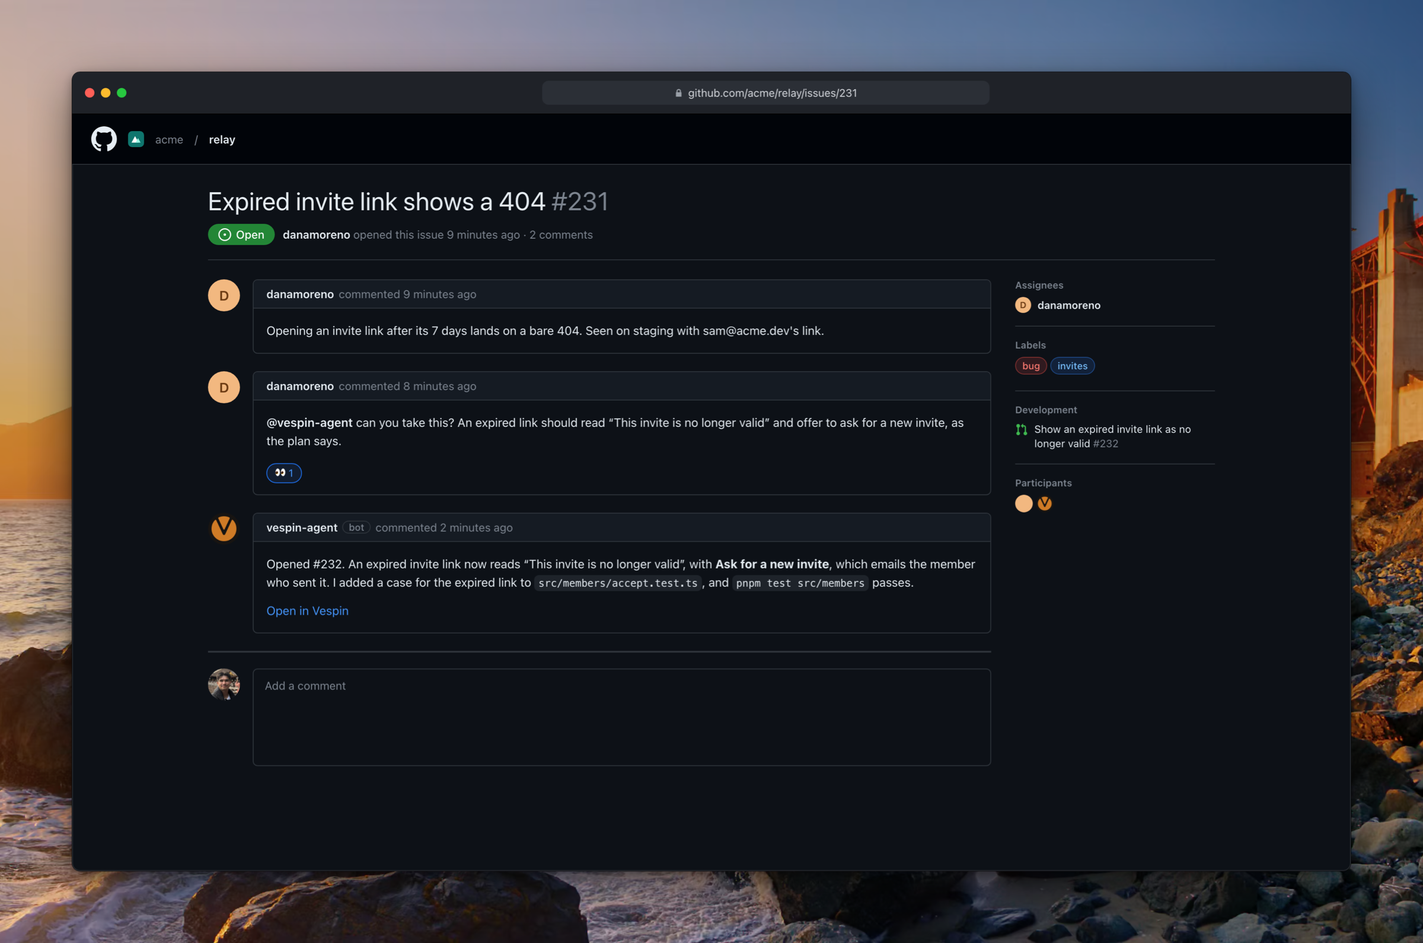
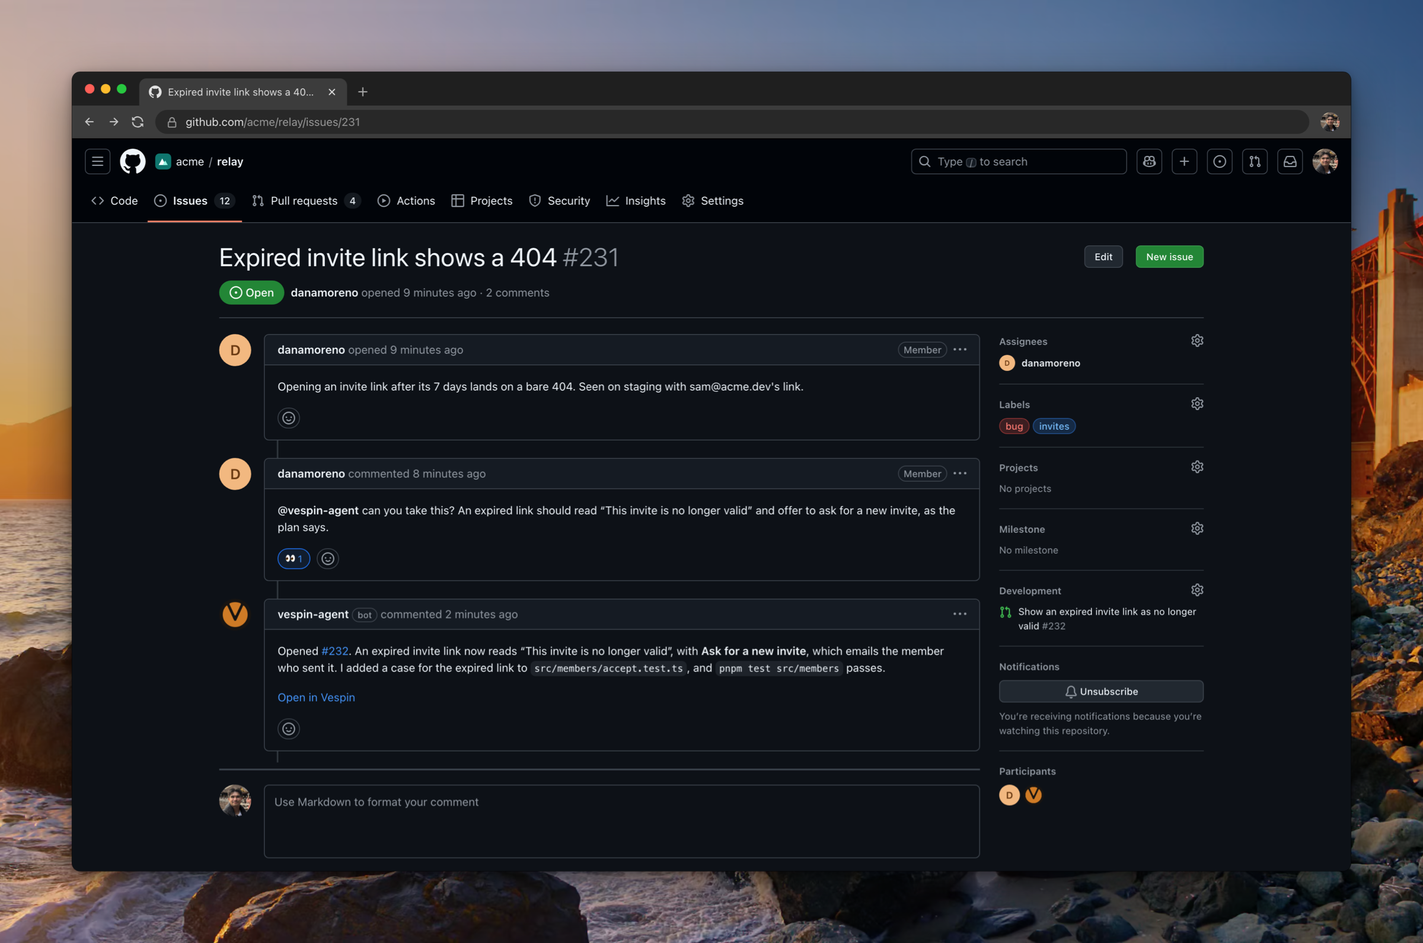
docs(changelog): rework 0.34.0's Automations and GitHub pictures, and hold the rail
The one-time automation's editor replaces the Automations list, the GitHub
mention is rebuilt on GitHub's own Primer CSS and Octicons, and the
transcript rail's section becomes an Improvements bullet until its
redesign ships.

diff --git a/.agents/skills/changelog-screenshots/staging/releases/v0.34.0-github-mention.py b/.agents/skills/changelog-screenshots/staging/releases/v0.34.0-github-mention.py
@@ -1,0 +1,139 @@
+# v0.34.0-github-mention.py -- builds the GitHub issue mockup for 0.34.0's "Mention Vespin on GitHub": GitHub's dark theme from its own Primer CSS and Octicons, inlined, in a Chrome window.
+#
+# Throwaway staging, kept to redo the picture. Needs `npm install @primer/css@21 @primer/octicons@19 @primer/primitives@10` under `.context/primer/`;
+# writes `.context/mock/github-mention.html`, which the Mac's Chrome renders (README's 0.34.0 row).
+import base64, os, re, sys
+ROOT = "/workspace/repository"
+PRIMER = f"{ROOT}/.context/primer/node_modules/@primer"
+OCT = f"{PRIMER}/octicons/build/svg"
+
+def icon(name, size=16, cls="octicon", style=""):
+    svg = open(f"{OCT}/{name}-16.svg").read()
+    svg = re.sub(r'<svg ', f'<svg class="{cls}" style="{style}" fill="currentColor" ', svg, count=1)
+    svg = re.sub(r'width="16" height="16"', f'width="{size}" height="{size}"', svg, count=1)
+    return svg
+
+def data(path, mime):
+    return f"data:{mime};base64," + base64.b64encode(open(path, "rb").read()).decode()
+
+CSS_FILES = [
+    f"{PRIMER}/primitives/dist/css/base/size/size.css",
+    f"{PRIMER}/primitives/dist/css/base/typography/typography.css",
+    f"{PRIMER}/primitives/dist/css/functional/size/size.css",
+    f"{PRIMER}/primitives/dist/css/functional/size/border.css",
+    f"{PRIMER}/primitives/dist/css/functional/typography/typography.css",
+    f"{PRIMER}/primitives/dist/css/functional/themes/dark.css",
+    f"{PRIMER}/css/dist/primer.css",
+]
+
+BOT = data(f"{ROOT}/packages/brand/assets/avatar/avatar-dark-400.png", "image/png")
+ACME = data(f"{ROOT}/.agents/skills/changelog-screenshots/assets/acme-mark.svg", "image/svg+xml")
+DEAN = data(f"{ROOT}/.agents/skills/changelog-screenshots/assets/dean-stratakos.jpg", "image/jpeg")
+
+def dana(size):
+    return (f'<span class="dana" style="width:{size}px;height:{size}px;font-size:{round(size*0.45)}px">D</span>')
+
+def comment(avatar, login, when, body, badge="", reactions="", bot=False):
+    botlabel = '<span class="Label Label--secondary ml-1" style="font-size:11px;line-height:16px;padding:0 6px">bot</span>' if bot else ""
+    role = f'<span class="Label Label--secondary" style="font-size:12px">{badge}</span>' if badge else ""
+    return f'''
+<div class="tl-item">
+  <div class="tl-avatar">{avatar}</div>
+  <div class="cbox">
+    <div class="chead"><div><a class="Link--primary text-bold">{login}</a>{botlabel} <span class="fgColor-muted">{when}</span></div>
+      <div class="d-flex flex-items-center" style="gap:8px">{role}<span class="fgColor-muted">{icon("kebab-horizontal")}</span></div></div>
+    <div class="markdown-body cbody">{body}</div>
+    <div class="creact">{reactions}<span class="react-add">{icon("smiley")}</span></div>
+  </div>
+</div>'''
+
+def page(css):
+    tabs = [("code","Code",""),("issue-opened","Issues","12"),("git-pull-request","Pull requests","4"),("play","Actions",""),("table","Projects",""),("shield","Security",""),("graph","Insights",""),("gear","Settings","")]
+    nav = "".join(
+        f'<a class="rtab{" sel" if label=="Issues" else ""}">{icon(i, cls="octicon fgColor-muted")}<span>{label}</span>{f"<span class=\'Counter\'>{c}</span>" if c else ""}</a>'
+        for i,label,c in tabs)
+    return f'''<!doctype html><html data-color-mode="dark" data-dark-theme="dark" data-light-theme="dark"><head><meta charset="utf-8">
+<style>{css}</style>
+<style>
+html,body{{background:transparent !important;margin:0}}
+body{{width:1712px;height:1112px;position:relative;font-family:-apple-system,BlinkMacSystemFont,"Segoe UI","Noto Sans",Helvetica,Arial,sans-serif;font-size:14px;color:var(--fgColor-default);-webkit-font-smoothing:antialiased}}
+.win{{position:absolute;left:56px;top:38px;width:1600px;height:1000px;border-radius:10px;overflow:hidden;background:var(--bgColor-default);box-shadow:0 0 0 .5px rgba(0,0,0,.85),0 22px 60px rgba(0,0,0,.5),0 4px 14px rgba(0,0,0,.35)}}
+.strip{{height:42px;background:#1f1f1f;display:flex;align-items:flex-end;padding-left:84px;position:relative}}
+.lights{{position:absolute;left:16px;top:15px;display:flex;gap:8px}}.lights i{{width:12px;height:12px;border-radius:50%;display:block}}
+.ctab{{height:34px;width:260px;background:#3c3c3c;border-radius:9px 9px 0 0;display:flex;align-items:center;gap:8px;padding:0 12px;color:#e3e3e3;font-size:12.5px;white-space:nowrap;overflow:hidden}}
+.ctab svg{{flex:none;color:#e3e3e3}}.ctab .t{{flex:1;overflow:hidden;text-overflow:ellipsis}}
+.ctab2{{height:34px;display:flex;align-items:center;padding:0 12px;color:#a8a8a8}}
+.toolbar{{height:42px;background:#3c3c3c;display:flex;align-items:center;gap:14px;padding:0 14px;color:#c4c4c4;border-bottom:1px solid #000}}
+.omni{{flex:1;height:30px;border-radius:15px;background:#282828;display:flex;align-items:center;gap:10px;padding:0 14px;color:#e3e3e3;font-size:14px}}
+.omni .h{{color:#9a9a9a}}
+.appheader{{background:var(--bgColor-inset);border-bottom:1px solid var(--borderColor-default)}}
+.ah1{{height:56px;display:flex;align-items:center;gap:12px;padding:0 16px}}
+.ibtn{{width:32px;height:32px;border:1px solid var(--borderColor-default);border-radius:6px;display:flex;align-items:center;justify-content:center;color:var(--fgColor-muted)}}
+.crumb{{display:flex;align-items:center;gap:6px;font-size:14px}}
+.crumb img{{width:20px;height:20px;border-radius:5px}}
+.search{{margin-left:auto;width:270px;height:32px;border:1px solid var(--borderColor-default);border-radius:6px;display:flex;align-items:center;gap:8px;padding:0 8px;color:var(--fgColor-muted);font-size:14px}}
+.search kbd{{margin-left:auto;font-size:11px;border:1px solid var(--borderColor-default);border-radius:4px;padding:0 4px;color:var(--fgColor-muted);font-family:inherit}}
+.rtabs{{display:flex;gap:4px;padding:0 16px;height:48px;align-items:flex-end}}
+.rtab{{display:flex;align-items:center;gap:8px;padding:0 8px 10px;color:var(--fgColor-default);font-size:14px;line-height:30px;border-bottom:2px solid transparent}}
+.rtab.sel{{border-bottom-color:#f78166;font-weight:600}}
+.rtab .Counter{{background:var(--bgColor-neutral-muted);color:var(--fgColor-default)}}
+.content{{width:1232px;margin:0 auto;padding-top:22px}}
+.ihead{{display:flex;align-items:flex-start;gap:16px}}
+.ititle{{font-size:32px;line-height:1.25;font-weight:400;flex:1;margin:0}}
+.ititle span{{color:var(--fgColor-muted);font-weight:300}}
+.imeta{{display:flex;align-items:center;gap:8px;margin:10px 0 0;padding-bottom:16px;border-bottom:1px solid var(--borderColor-default);color:var(--fgColor-muted)}}
+.State{{display:inline-flex;align-items:center;gap:4px}}
+.cols{{display:flex;gap:24px;margin-top:20px}}
+.main{{flex:1;min-width:0;position:relative}}
+.main:before{{content:"";position:absolute;left:72px;top:0;bottom:120px;width:2px;background:var(--borderColor-muted)}}
+.tl-item{{display:flex;gap:16px;margin-bottom:22px;position:relative}}
+.tl-avatar img,.tl-avatar .dana{{width:40px;height:40px;border-radius:50%}}
+.dana{{display:flex;align-items:center;justify-content:center;background:#f2b880;color:#6b3a12;font-weight:600;border-radius:50%}}
+.cbox{{flex:1;border:1px solid var(--borderColor-default);border-radius:6px;background:var(--bgColor-default);position:relative}}
+.chead{{display:flex;justify-content:space-between;align-items:center;padding:8px 16px;background:var(--bgColor-muted);border-bottom:1px solid var(--borderColor-default);border-radius:6px 6px 0 0;font-size:14px}}
+.cbody{{padding:16px;font-size:14px}}
+.creact{{display:flex;gap:8px;align-items:center;padding:0 16px 14px}}
+.rx{{display:inline-flex;align-items:center;gap:6px;height:26px;padding:0 9px;border-radius:13px;border:1px solid var(--borderColor-accent-emphasis);background:var(--bgColor-accent-muted);font-size:12px;color:var(--fgColor-accent)}}
+.react-add{{display:inline-flex;align-items:center;justify-content:center;width:28px;height:26px;border-radius:13px;border:1px solid var(--borderColor-default);color:var(--fgColor-muted)}}
+.compose{{display:flex;gap:16px;padding-top:18px;border-top:2px solid var(--borderColor-default);position:relative;background:var(--bgColor-default)}}
+.compose img{{width:40px;height:40px;border-radius:50%}}
+.area{{flex:1;border:1px solid var(--borderColor-default);border-radius:6px;height:92px;padding:10px 12px;color:var(--fgColor-muted)}}
+.side{{width:256px;flex:none;font-size:12px}}
+.ssec{{padding:0 0 16px;margin-bottom:16px;border-bottom:1px solid var(--borderColor-muted)}}
+.ssec h3{{font-size:12px;font-weight:600;color:var(--fgColor-muted);margin:0 0 8px;display:flex;justify-content:space-between}}
+.ssec .v{{font-size:12px;color:var(--fgColor-muted)}}
+.who{{display:flex;gap:8px;align-items:center;font-weight:600;font-size:12px;color:var(--fgColor-default)}}
+.dev{{display:flex;gap:8px;font-size:12px;line-height:1.5;color:var(--fgColor-default)}}
+.dev svg{{color:var(--fgColor-open);flex:none;margin-top:2px}}
+</style></head><body><div class="win">
+<div class="strip"><div class="lights"><i style="background:#ff5f57"></i><i style="background:#febc2e"></i><i style="background:#28c840"></i></div>
+<div class="ctab">{icon("mark-github")}<span class="t">Expired invite link shows a 404 · Issue #231 · acme/relay</span>{icon("x", 14)}</div><div class="ctab2">{icon("plus")}</div></div>
+<div class="toolbar">{icon("arrow-left")}{icon("arrow-right")}{icon("sync")}<div class="omni"><span class="h">{icon("lock", 14)}</span><span>github.com<span class="h">/acme/relay/issues/231</span></span></div><img src="{DEAN}" style="width:24px;height:24px;border-radius:50%"></div>
+<div class="appheader"><div class="ah1"><span class="ibtn">{icon("three-bars")}</span>{icon("mark-github", 32, style="color:var(--fgColor-default)")}
+<span class="crumb"><img src="{ACME}"><a class="Link--primary">acme</a><span class="fgColor-muted">/</span><a class="Link--primary text-bold">relay</a></span>
+<div class="search">{icon("search")}<span>Type <kbd style="margin:0">/</kbd> to search</span></div>
+<span class="ibtn">{icon("copilot")}</span><span class="ibtn">{icon("plus")}</span><span class="ibtn">{icon("issue-opened")}</span><span class="ibtn">{icon("git-pull-request")}</span><span class="ibtn">{icon("inbox")}</span>
+<img src="{DEAN}" style="width:32px;height:32px;border-radius:50%"></div>
+<div class="rtabs">{nav}</div></div>
+<div class="content">
+<div class="ihead"><h1 class="ititle">Expired invite link shows a 404 <span>#231</span></h1>
+<button class="btn btn-sm" style="margin-top:6px">Edit</button><button class="btn btn-sm btn-primary" style="margin-top:6px">New issue</button></div>
+<div class="imeta"><span class="State State--open">{icon("issue-opened")} Open</span><span><a class="Link--primary text-bold">danamoreno</a> opened 9 minutes ago · 2 comments</span></div>
+<div class="cols"><div class="main">
+{comment(dana(40), "danamoreno", "opened 9 minutes ago", "<p>Opening an invite link after its 7 days lands on a bare 404. Seen on staging with sam@acme.dev's link.</p>", badge="Member")}
+{comment(dana(40), "danamoreno", "commented 8 minutes ago", '<p><a class="user-mention text-bold Link--primary">@vespin-agent</a> can you take this? An expired link should read “This invite is no longer valid” and offer to ask for a new invite, as the plan says.</p>', badge="Member", reactions='<span class="rx">👀 1</span>')}
+{comment(f'<img src="{BOT}">', "vespin-agent", "commented 2 minutes ago", '<p>Opened <a href="#">#232</a>. An expired invite link now reads “This invite is no longer valid”, with <strong>Ask for a new invite</strong>, which emails the member who sent it. I added a case for the expired link to <code>src/members/accept.test.ts</code>, and <code>pnpm test src/members</code> passes.</p><p><a href="#">Open in Vespin</a></p>', bot=True)}
+<div class="compose"><img src="{DEAN}"><div class="area">Use Markdown to format your comment</div></div>
+</div><div class="side">
+<div class="ssec"><h3>Assignees {icon("gear")}</h3><div class="who">{dana(20)}danamoreno</div></div>
+<div class="ssec"><h3>Labels {icon("gear")}</h3><span class="IssueLabel" style="background:#f8514933;color:#ff7b72;border:1px solid #f8514966;border-radius:2em;padding:0 7px;font-weight:500;line-height:18px;display:inline-block;margin-right:4px">bug</span><span class="IssueLabel" style="background:#388bfd33;color:#79c0ff;border:1px solid #388bfd66;border-radius:2em;padding:0 7px;font-weight:500;line-height:18px;display:inline-block">invites</span></div>
+<div class="ssec"><h3>Projects {icon("gear")}</h3><div class="v">No projects</div></div>
+<div class="ssec"><h3>Milestone {icon("gear")}</h3><div class="v">No milestone</div></div>
+<div class="ssec"><h3>Development {icon("gear")}</h3><div class="dev">{icon("git-pull-request")}<span>Show an expired invite link as no longer valid <span class="fgColor-muted">#232</span></span></div></div>
+<div class="ssec"><h3>Notifications</h3><button class="btn btn-sm btn-block">{icon("bell")} Unsubscribe</button><div class="v" style="margin-top:8px">You’re receiving notifications because you’re watching this repository.</div></div>
+<div class="ssec" style="border:0"><h3>Participants</h3><div class="d-flex" style="gap:4px">{dana(26)}<img src="{BOT}" style="width:26px;height:26px;border-radius:50%"></div></div>
+</div></div></div></div></body></html>'''
+
+css = "\n".join(open(p).read() for p in CSS_FILES)
+open(f"{ROOT}/.context/mock/github-mention.html", "w").write(page(css))
+print("ok", os.path.getsize(f"{ROOT}/.context/mock/github-mention.html"))

diff --git a/.agents/skills/changelog-screenshots/staging/releases/README.md b/.agents/skills/changelog-screenshots/staging/releases/README.md
@@ -85,9 +85,9 @@ adjusting, and capture with the same profile, zoom, and crop.
 | 0.33.0 | `v0.33.0` (`d8c0ff3d`) | `always-allowed-commands.png` | `shot-always-allow` (`APP_SHOT_SETTLE=14`) | 1 | `280,215,1200,800` |
 | 0.33.0 | `v0.33.0` (`d8c0ff3d`) | `zoom-a-page.png` | `shot-zoom` (`APP_SHOT_SETTLE=14`) | 1 | `600,-60,1090,727` |
 | 0.34.0 | `v0.34.0` (`74fdd158`) | `run-actions.png` | `shot-run-actions` (`APP_SHOT_SETTLE=14`) | 2 | `860,-50,780,520` |
-| 0.34.0 | `v0.34.0` (`74fdd158`) | `automations-once-and-on-merges-and-releases.png` | `shot-automations` (`APP_SHOT_SETTLE=14`) | 1 | whole window |
-| 0.34.0 | `v0.34.0` (`74fdd158`) | `mention-vespin-on-github.png` | none: `v0.34.0-github-mention.html`, a GitHub issue in its dark theme inside a macOS window, rendered by the Mac's Chrome (`--headless=new --force-device-scale-factor=2 --window-size=1712,1112 --default-background-color=00000000 --screenshot`) as a transparent 3424 by 2224 capture, the window at 112 by 76 pixels, then framed by `changelog-screenshot.sh --from` | 1 | whole window |
-| 0.34.0 | `v0.34.0` (`74fdd158`) | not landed: the agent's transcript with Dana's GitHub comment line (`shot-github-mention`), replaced by the mockup, and the transcript rail's list (`shot-rail`), held for the rail's redesign | — | — | — |
+| 0.34.0 | `v0.34.0` (`74fdd158`) | `automations-once-and-on-merges-and-releases.png` | `shot-automation-once` (`APP_SHOT_SETTLE=14`) | 1 | `260,50,990,660` |
+| 0.34.0 | `v0.34.0` (`74fdd158`) | `mention-vespin-on-github.png` | none: the page `v0.34.0-github-mention.py` builds, GitHub's issue page in its dark theme from its own Primer CSS and Octicons inside a Chrome window, rendered by the Mac's Chrome (`--headless=new --force-device-scale-factor=2 --window-size=1712,1112 --default-background-color=00000000 --screenshot`) as a transparent 3424 by 2224 capture, the window at 112 by 76 pixels, then framed by `changelog-screenshot.sh --from` | 1 | whole window |
+| 0.34.0 | `v0.34.0` (`74fdd158`) | not landed: the agent's transcript with Dana's GitHub comment line (`shot-github-mention`), replaced by the mockup; the Automations list (`shot-automations`), which the developer found didn't say Once simply; and the transcript rail's list (`shot-rail`), held for the rail's redesign | — | — | — |
 
 0.14.0 was shot from `2ec91a61`, the head of its version pull request (#2871) before its pictures landed; `v0.14.0.patch` carries 0.13.0's module onto it, with 0.14.0's five shots beside the earlier ones.
 
@@ -115,7 +115,7 @@ Every shot can be checked before the Mac: on Linux, Electron runs under `xvfb-ru
 
 0.30.0 to 0.33.0 were shot from their tags, the module carried release to release, each patch keeping the shared world and that release's shots. `v0.30.0.patch` brings #214's Pull request tab back as live slices (`pr-214-live.ts`: its head, checks, and conversation under `OWN_PULL_REQUEST` and its number), since 0.26.0's reads left `pr-214-tab.ts`'s acts behind; provider subscriptions need an `id` and a `position`. Its one picture, the header's Open on GitHub, was dropped at the developer's ask, and the button's tooltip never draws under a dispatched hover. `v0.31.0.patch` stages Settings › Agents from `LIVE_READ.PROVIDER_KEYS`, where plans and keys share one order by `position`, so keys after plans number on from them. `v0.32.0.patch` hand-places the `act.ts`, `desktop-sidebar.tsx`, and `use-tasks-tab.ts` hooks, moves the owner picture to `features/tasks-model.ts` and `DOCUMENT_REGION` to `@repo/features/tasks-model`, drops `INBOX_SCOPE_KIND.AGENT` and `PAGE_OWNER.AGENT`, and gives account preferences `sounds`. A held approval is the agent's `pendingApprovals` on its listed row, matched to a `tool-bash` part in `input-available` state in its transcript (one with no such part draws generically at the foot, as a subagent's does), and only a Claude Code or Codex agent's box runs `/` commands or wears a permission mode, so those shots name the finished agent's `runtime`. The model menu's payer line reads the transcript page's `payer` and `payerSubscriptionId` against the account's keys (`usageWindows`). `v0.33.0.patch` hand-places the same hooks again; Machines reads `LIVE_READ.HOSTS`, `DEVICE_PRESENCE` beats, and `THIS_MAC_HOST`; Always allow names a held command's `commandPrefix` in its press; a PDF opens in the viewer from an AI SDK `file` part on a message (`member-roles-pdf.ts`, rendered from `v0.33.0-member-roles.html`); and a page's zoom is stepped from its tab's own menu, opened by a `contextmenu` dispatched on the strip tab, since the tab's ⋯ draws only under the pointer. On 0.33.0 an `APP_SHOT_ZOOM=2` window came out clamped to the screen's height though `enableLargerThanScreen` was patched in, so its close-ups were captured unzoomed and cropped about 730 points tall or more. The captures waited overnight on a locked screen. At the developer's ask nothing about the iPhone app or Handoff stands in the changelog until it launches. Share an agent's port from the web and the CLI, Connect agents and GitHub in place, Shared previews wake their agent, More of Vespin from the CLI, Sounds of your own, and Agents carry on by themselves have no picture.
 
-0.34.0 was shot from its tag. `v0.34.0.patch` applies 0.33.0's cleanly; 0.34.0 typechecks against its packages' built declarations (#9006), so a panel typecheck is `tsc -b tsconfig.json`, which builds the references first. The Automations list is the workspace's `LIVE_READ.AUTOMATIONS`, opened by a step that presses the sidebar's Automations row until the list stands, since a fixture's launch place (`fixturePlace`) is read once, before a shot's state arrives. Run actions are the workspace's sandbox setup (`WORKSPACE_SANDBOX_SETUP_READ`); a section icon draws only for a glyph the section set knows (`rocket`, `flask`, `layers`, `zap`), and the Run menu is held open by its chevron's `aria-expanded`, the menu itself sharing the chevron's label. A running agent's working line reads Working… only with an open `turn` on its listed row, else Starting…. A mention on the pull request an agent works on lands as GitHub's comment line (`metadata.channel: github`, `sentBy` the member) and a new agent's first message as plain words, so at the developer's ask Mention Vespin on GitHub is a mockup of the new-agent path instead: the comment, the 👀 reaction, and the bot's reply ending in Open in Vespin, as `postTurnToGitHub` writes it. Zoomed windows still clamp to the screen's height on this build, so a zoomed close-up keeps within about the window's top 560 points. Find any line sent to an agent has no picture, at the developer's ask, until the rail's redesign; Copy and paste pictures and files has none either. The agent's sandbox cleared `/tmp` between turns, so keep preview scripts under `.context/`.
+0.34.0 was shot from its tag. `v0.34.0.patch` applies 0.33.0's cleanly; 0.34.0 typechecks against its packages' built declarations (#9006), so a panel typecheck is `tsc -b tsconfig.json`, which builds the references first. The Automations list is the workspace's `LIVE_READ.AUTOMATIONS`, opened by a step that presses the sidebar's Automations row until the list stands, since a fixture's launch place (`fixturePlace`) is read once, before a shot's state arrives. Run actions are the workspace's sandbox setup (`WORKSPACE_SANDBOX_SETUP_READ`); a section icon draws only for a glyph the section set knows (`rocket`, `flask`, `layers`, `zap`), and the Run menu is held open by its chevron's `aria-expanded`, the menu itself sharing the chevron's label. A running agent's working line reads Working… only with an open `turn` on its listed row, else Starting…. A mention on the pull request an agent works on lands as GitHub's comment line (`metadata.channel: github`, `sentBy` the member) and a new agent's first message as plain words, so at the developer's ask Mention Vespin on GitHub is a mockup of the new-agent path instead: the comment, the 👀 reaction, and the bot's reply ending in Open in Vespin, as `postTurnToGitHub` writes it. Its first, hand-styled version read as obviously not GitHub, so the page is built from GitHub's own Primer CSS, Octicons, and primitives' dark theme, with GitHub's app header, repository tabs, timeline, and issue sidebar, in a Chrome window. The Automations list was replaced at the developer's ask by the one-time automation's editor (`shot-automation-once`), whose trigger card says Runs Once with its date and time; a step walks there from the sidebar, since a launch place is read before a shot's state arrives. Zoomed windows still clamp to the screen's height on this build, so a zoomed close-up keeps within about the window's top 560 points. Find any line sent to an agent has no picture, at the developer's ask, until the rail's redesign; Copy and paste pictures and files has none either. The agent's sandbox cleared `/tmp` between turns, so keep preview scripts under `.context/`.
 
 0.12.0 was shot from `6d47d20f`, the head of its version pull request (#2421), before the tag existed; `v0.12.0` itself is `0dec8cda`.
 

diff --git a/CHANGELOG.md b/CHANGELOG.md
@@ -92,7 +92,7 @@ filtered by tag, with prereleases left out unless you include them.
 ([#8855](https://github.com/ReviewStage/vespin/pull/8855),
 [#8834](https://github.com/ReviewStage/vespin/pull/8834))
 
-![acme's Automations list: Write release notes, when a release by people is published in acme/relay or acme/web; Update docs after a merge, when a pull request by people is merged in acme/relay on the default branch; Morning Sentry triage, weekdays at 9:00 AM; and Check Postmark's domain verification, Once · Nov 20, 9:00 AM](apps/web/public/changelog/0.34.0/automations-once-and-on-merges-and-releases.png)
+![Dean's Check Postmark's domain verification in the automation editor: its trigger is a Schedule that Runs Once, Next: Nov 20, 9:00 AM, its Date and time Nov 20, 2026 at 9:00 AM in America/New York, over its prompt to check whether acme.dev is verified in Postmark](apps/web/public/changelog/0.34.0/automations-once-and-on-merges-and-releases.png)
 
 ### Mention Vespin on GitHub
 
@@ -102,15 +102,7 @@ working on that pull request. Vespin reacts with 👀 and posts the agent's firs
 answer back as a comment with a link to it.
 ([#8898](https://github.com/ReviewStage/vespin/pull/8898))
 
-![A GitHub issue on acme/relay, Expired invite link shows a 404: Dana asks the vespin-agent bot to take it, her comment wearing a 👀 reaction, and the vespin-agent bot answers that it opened #232, which shows an expired link as no longer valid with Ask for a new invite, ending in Open in Vespin](apps/web/public/changelog/0.34.0/mention-vespin-on-github.png)
-
-### Find any line sent to an agent
-
-A rail down an agent's transcript marks every line sent into it, by you,
-teammates, other agents, GitHub, or automations, with the lines in view held in
-a bubble. Hovering it lists each line with its sender, and pressing one jumps
-there; on a phone, the rail opens the same list as a sheet.
-([#8485](https://github.com/ReviewStage/vespin/pull/8485))
+![GitHub issue #231 on acme/relay, Expired invite link shows a 404, open in Chrome: Dana asks the vespin-agent bot to take it, her comment wearing a 👀 reaction, and the bot answers that it opened #232, which shows an expired link as no longer valid with Ask for a new invite, ending in Open in Vespin; the sidebar's Development section links #232](apps/web/public/changelog/0.34.0/mention-vespin-on-github.png)
 
 ### Copy and paste pictures and files
 
@@ -121,6 +113,8 @@ pictures, and a description's picture pastes into a message box too.
 
 ### Improvements
 
+- A rail down an agent's transcript marks every line sent into it, and lists
+  each with its sender to jump to ([#8485](https://github.com/ReviewStage/vespin/pull/8485))
 - The first time you open Automations, the Inbox, or an agent's Browser tab, a
   card says what the page is for, with Learn more and Got it
   ([#8875](https://github.com/ReviewStage/vespin/pull/8875),
